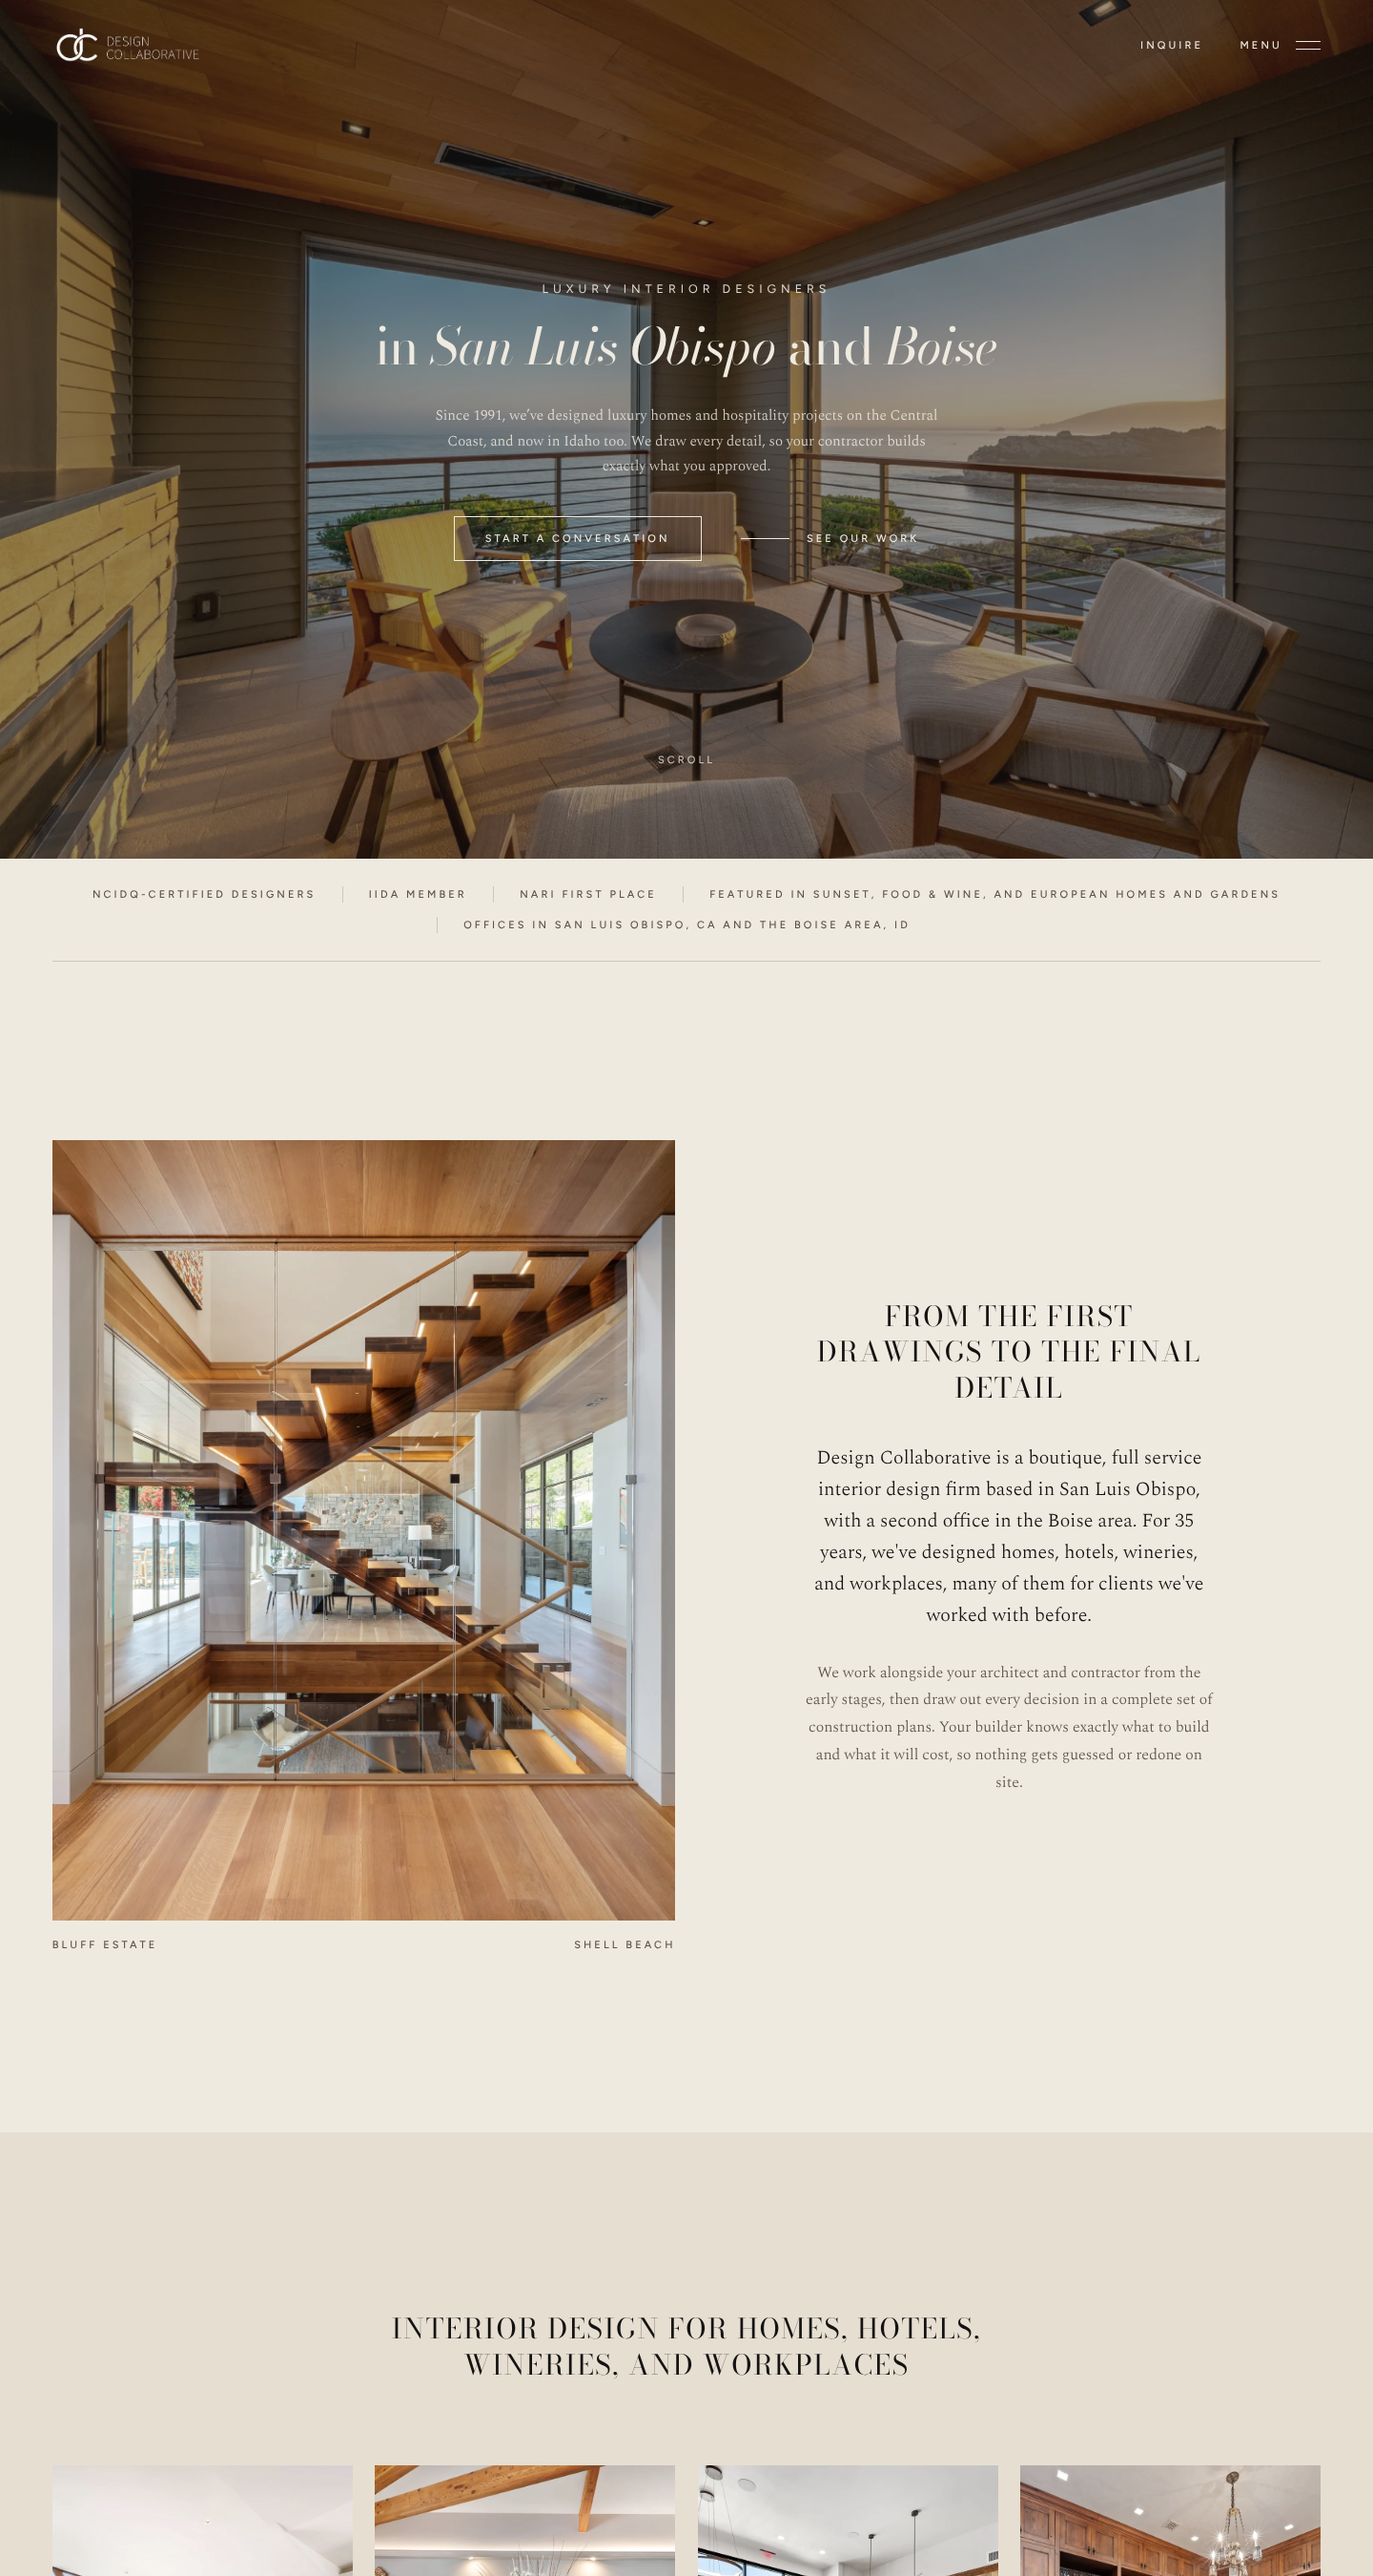
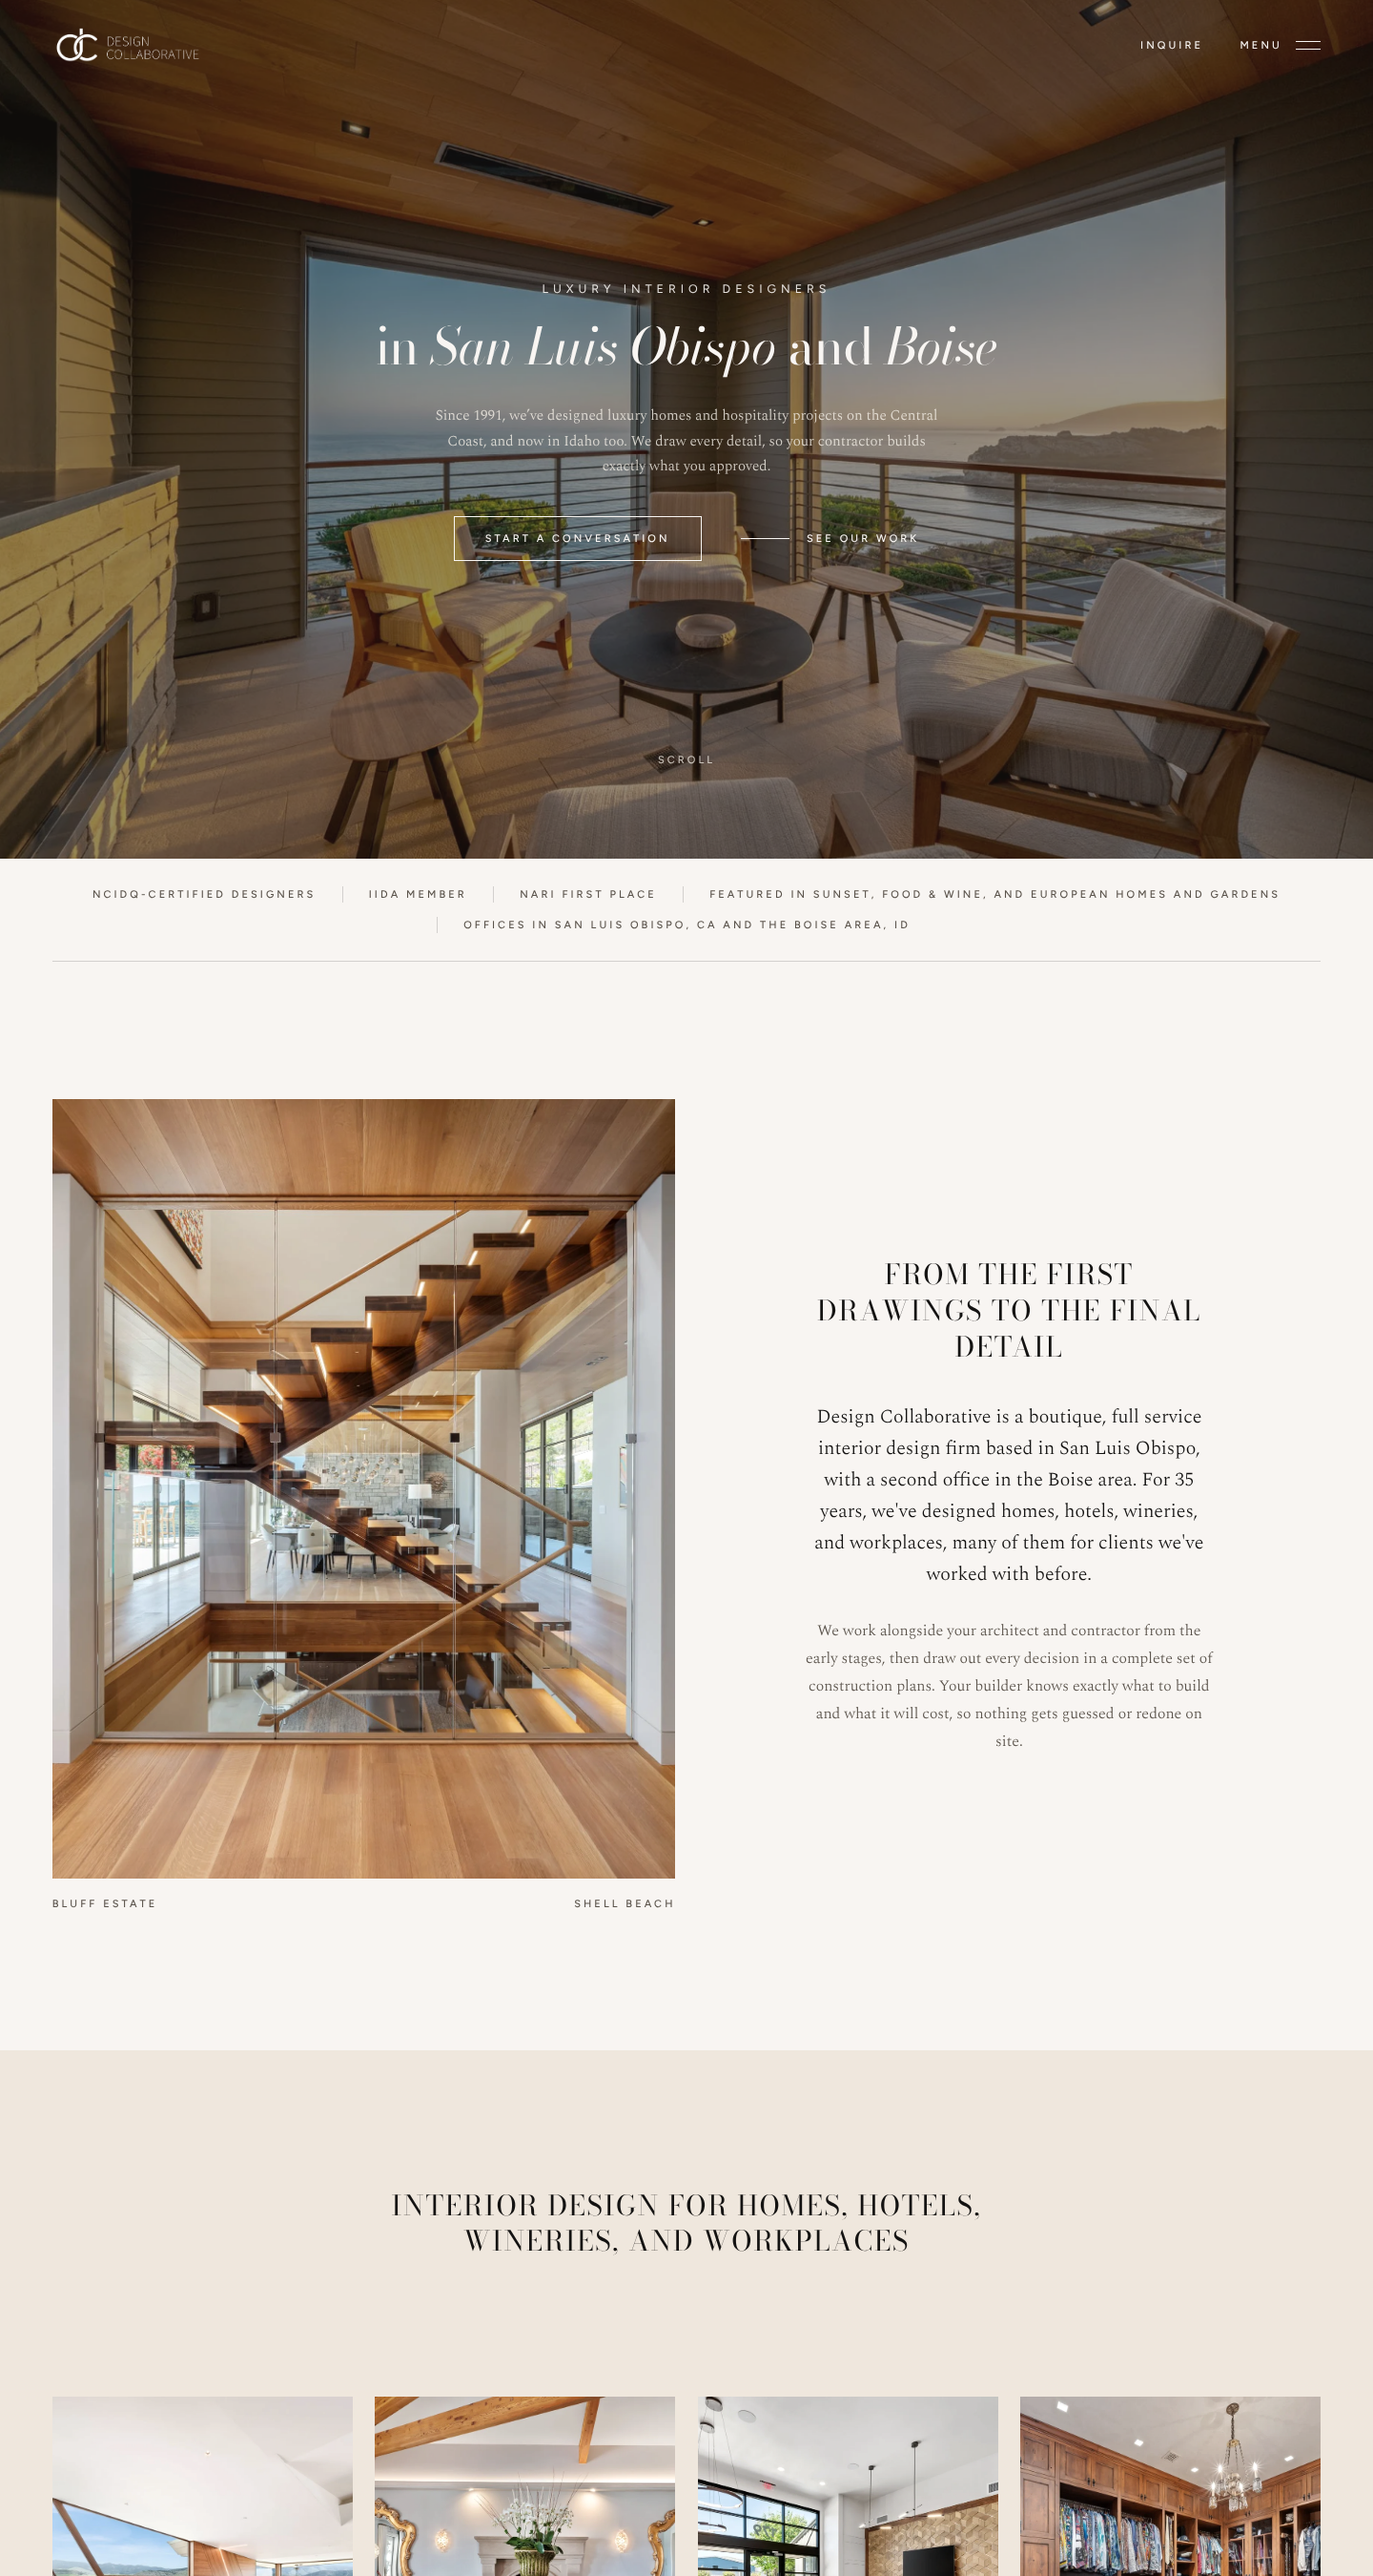
Use DC brand palette, balance section spacing, lock heading font cut
Palette from the live site's Squarespace colours: warm white #F8F5F2,
apricot #FFCC99 (tinted chapter), copper #B87332 accents; removes the
slate blue. Heading blocks now sit midway (equal space above/below).
Bodoni display optical size set explicitly so it matches on her site.

Claude-Session: https://claude.ai/code/session_01WwBvpqPXSJ5f6DX6dMBVaa

diff --git a/design-collaborative/squarespace/1-code-block.html b/design-collaborative/squarespace/1-code-block.html
@@ -22,14 +22,17 @@ body:has(#dc-home) #header,body:has(#dc-home) header#header,body:has(#dc-home) #
 #dc-home button{cursor:pointer}
 #dc-home img{max-width:100%;height:auto}
 
-#dc-home{--dc-cream:#EFEAE0;       
-  --dc-taupe:#E6DED1;       
+#dc-home{--dc-cream:#F8F5F2;       
+  --dc-taupe:#EFE7DD;       
   --dc-olive:#3A2F28;       
-  --dc-slate:#B8C1C0;       
-  --dc-sand:#AB9474;       
+  --dc-slate:#F2DFCA;       
+  --dc-copper:#B87332;      
+  --dc-copper-text:#8F5626; 
+  --dc-apricot:#FFCC99;     
+  --dc-sand:#FFCC99;       
   --dc-ink:#141312;         
   --dc-text:#5B544C;        
-  --dc-soft:#B9AC98;        
+  --dc-soft:#D9A877;        
   --dc-rule:rgba(20,19,18,.16);
   --dc-rule-d:rgba(243,238,230,.18);
 
@@ -46,7 +49,7 @@ body:has(#dc-home) #header,body:has(#dc-home) header#header,body:has(#dc-home) #
 
   --dc-gutter: clamp(1.1rem, 3.8vw, 4rem);
   --dc-colgap: clamp(.9rem, 1.6vw, 1.75rem);
-  --dc-section: clamp(6.5rem, 13vw, 14rem);
+  --dc-section: clamp(5.5rem, 10vw, 10rem);
   --dc-ease: cubic-bezier(.22,.61,.12,1);}
 #dc-home *,#dc-home *::before,#dc-home *::after{box-sizing:border-box}
 #dc-home{margin:0!important;background:var(--dc-cream);color:var(--dc-ink);font:300 var(--dc-fs-body)/1.8 var(--dc-text-serif);-webkit-font-smoothing:antialiased;overflow-x:hidden}
@@ -65,7 +68,9 @@ body:has(#dc-home) #header,body:has(#dc-home) header#header,body:has(#dc-home) #
 #dc-home .dc-olive{background:var(--dc-olive);color:var(--dc-cream)}
 #dc-home .dc-black{background:var(--dc-ink);color:var(--dc-cream)}
 #dc-home .dc-slate{background:var(--dc-slate);color:var(--dc-ink)}
-#dc-home .dc-h1,#dc-home .dc-h2,#dc-home .dc-h3{font-family:var(--dc-serif);font-weight:400;letter-spacing:-.01em;font-optical-sizing:auto}
+#dc-home .dc-h1,#dc-home .dc-h2,#dc-home .dc-h3{font-family:var(--dc-serif);font-weight:400;letter-spacing:-.01em;font-optical-sizing:none;font-variation-settings:"opsz" 28}
+#dc-home .dc-h1{font-variation-settings:"opsz" 60}
+#dc-home .dc-h3{font-variation-settings:"opsz" 16}
 #dc-home .dc-h1{font-size:var(--dc-fs-h1);line-height:1.08}
 #dc-home .dc-h2{font-size:var(--dc-fs-h2);line-height:1.3;text-transform:uppercase;letter-spacing:.06em}
 #dc-home .dc-h2 .dc-i,#dc-home .dc-h2 .dc-caps{font-style:normal;font-family:inherit;font-size:inherit;letter-spacing:inherit}
@@ -163,12 +168,12 @@ body:has(#dc-home) #header,body:has(#dc-home) header#header,body:has(#dc-home) #
 #dc-home .dc-intro__text .dc-prose{margin:1.8rem auto 0!important}
 @media (max-width:960px){#dc-home .dc-intro .dc-grid{display:block}
 #dc-home .dc-intro__img{margin-top:3.5rem!important}}
-#dc-home .dc-svc__head{text-align:center;max-width:42rem;margin:0 auto clamp(3.5rem,6vw,6rem)!important}
+#dc-home .dc-svc__head{text-align:center;max-width:42rem;margin:0 auto var(--dc-section)!important}
 #dc-home .dc-svc__row{display:grid;grid-template-columns:repeat(4,minmax(0,1fr));gap:var(--dc-colgap)}
 #dc-home .dc-svc__card{position:relative;display:flex;flex-direction:column}
 #dc-home .dc-svc__card .dc-media{aspect-ratio:4/5}
 #dc-home .dc-svc__card:hover img{transform:scale(1.04)}
-#dc-home .dc-svc__card .dc-label{margin-top:1.5rem!important;color:var(--dc-text)}
+#dc-home .dc-svc__card .dc-label{margin-top:1.5rem!important;color:var(--dc-copper-text)}
 #dc-home .dc-svc__card .dc-h3{margin-top:.6rem!important}
 #dc-home .dc-svc__card p{margin-top:.9rem!important;color:var(--dc-text);font-size:.93rem}
 #dc-home .dc-svc__card .dc-link{margin-top:1.4rem!important;gap:.8rem}
@@ -201,7 +206,7 @@ body:has(#dc-home) #header,body:has(#dc-home) header#header,body:has(#dc-home) #
 @media (max-width:960px){#dc-home .dc-who .dc-grid{display:block}
 #dc-home .dc-who__img{margin-top:3.5rem!important}}
 #dc-home .dc-homes{padding-bottom:0}
-#dc-home .dc-homes__head{max-width:44rem;text-align:center;margin:0 auto clamp(3.5rem,6vw,6rem)!important}
+#dc-home .dc-homes__head{max-width:44rem;text-align:center;margin:0 auto var(--dc-section)!important}
 #dc-home .dc-homes__head .dc-prose{margin:1.8rem auto 0!important;max-width:34rem}
 #dc-home .dc-homes__pair{display:grid;grid-template-columns:1fr 1fr;gap:3px}
 #dc-home .dc-place{position:relative;height:90vh;min-height:560px;color:var(--dc-cream);display:flex;align-items:flex-end;justify-content:center;text-align:center}
@@ -212,11 +217,11 @@ body:has(#dc-home) #header,body:has(#dc-home) header#header,body:has(#dc-home) #
 #dc-home .dc-place:hover img{transform:scale(1.03)}
 @media (max-width:960px){#dc-home .dc-homes__pair{grid-template-columns:1fr}
 #dc-home .dc-place{height:78svh}}
-#dc-home .dc-steps__head{text-align:center;margin-bottom:clamp(3.5rem,6vw,5.5rem)!important}
+#dc-home .dc-steps__head{text-align:center;margin-bottom:var(--dc-section)!important}
 #dc-home .dc-steps__list{display:grid;grid-template-columns:repeat(3,1fr);gap:var(--dc-colgap)}
 #dc-home .dc-step{text-align:center;padding:0 clamp(.5rem,2vw,2.5rem);border-left:1px solid var(--dc-rule)}
 #dc-home .dc-step:first-child{border-left:0}
-#dc-home .dc-step__n{display:block;font:italic 400 2rem/1 var(--dc-serif);color:var(--dc-ink);opacity:.55;margin-bottom:1.4rem!important}
+#dc-home .dc-step__n{display:block;font:italic 400 2rem/1 var(--dc-serif);color:var(--dc-copper-text);margin-bottom:1.4rem!important}
 #dc-home .dc-step p{margin:.9rem auto 0!important;color:#3F3B36;max-width:21rem}
 @media (max-width:960px){#dc-home .dc-steps__list{grid-template-columns:1fr;gap:0}
 #dc-home .dc-step{border-left:0;border-top:1px solid var(--dc-rule);padding:2.4rem 0}

diff --git a/design-collaborative/homepage-concept.html b/design-collaborative/homepage-concept.html
@@ -43,14 +43,17 @@
    Squarespace: Website > Pages > Custom Code > Custom CSS
    ===================================================================== */
 :root{
-  --dc-cream:#EFEAE0;       /* page */
-  --dc-taupe:#E6DED1;       /* warm alternate */
+  --dc-cream:#F8F5F2;       /* page: brand light accent hsl(30,20%,96%) */
+  --dc-taupe:#EFE7DD;       /* warm alternate */
   --dc-olive:#3A2F28;       /* chocolate (was olive) */
-  --dc-slate:#B8C1C0;       /* soft slate chapter */
-  --dc-sand:#AB9474;       /* deep accent chapter */
+  --dc-slate:#F2DFCA;       /* apricot tint chapter (from brand accent #FFCC99) */
+  --dc-copper:#B87332;      /* brand dark accent hsl(29,57%,46%) */
+  --dc-copper-text:#8F5626; /* copper for small text on light, 5.6:1 */
+  --dc-apricot:#FFCC99;     /* brand accent, for use on dark */
+  --dc-sand:#FFCC99;       /* deep accent chapter */
   --dc-ink:#141312;         /* gallery black */
   --dc-text:#5B544C;        /* body on light, 6.9:1 on cream */
-  --dc-soft:#B9AC98;        /* accent on dark */
+  --dc-soft:#D9A877;        /* copper-light, accent on dark */
   --dc-rule:rgba(20,19,18,.16);
   --dc-rule-d:rgba(243,238,230,.18);
 
@@ -67,7 +70,7 @@
 
   --dc-gutter: clamp(1.1rem, 3.8vw, 4rem);
   --dc-colgap: clamp(.9rem, 1.6vw, 1.75rem);
-  --dc-section: clamp(6.5rem, 13vw, 14rem);
+  --dc-section: clamp(5.5rem, 10vw, 10rem);
   --dc-ease: cubic-bezier(.22,.61,.12,1);
 }
 
@@ -92,7 +95,9 @@ ul,ol{list-style:none}
 .dc-slate{background:var(--dc-slate);color:var(--dc-ink)}
 
 /* Type: serif headlines at modest sizes, italic accents, tracked caps sans */
-.dc-h1,.dc-h2,.dc-h3{font-family:var(--dc-serif);font-weight:400;letter-spacing:-.01em;font-optical-sizing:auto}
+.dc-h1,.dc-h2,.dc-h3{font-family:var(--dc-serif);font-weight:400;letter-spacing:-.01em;font-optical-sizing:none;font-variation-settings:"opsz" 28}
+.dc-h1{font-variation-settings:"opsz" 60}
+.dc-h3{font-variation-settings:"opsz" 16}
 .dc-h1{font-size:var(--dc-fs-h1);line-height:1.08}
 .dc-h2{font-size:var(--dc-fs-h2);line-height:1.3;text-transform:uppercase;letter-spacing:.06em}
 .dc-h2 .dc-i,.dc-h2 .dc-caps{font-style:normal;font-family:inherit;font-size:inherit;letter-spacing:inherit}
@@ -220,12 +225,12 @@ ul,ol{list-style:none}
 /* =====================================================================
    04 · WHAT WE DESIGN — row of tall portrait panels
    ===================================================================== */
-.dc-svc__head{text-align:center;max-width:42rem;margin:0 auto clamp(3.5rem,6vw,6rem)}
+.dc-svc__head{text-align:center;max-width:42rem;margin:0 auto var(--dc-section)}
 .dc-svc__row{display:grid;grid-template-columns:repeat(4,minmax(0,1fr));gap:var(--dc-colgap)}
 .dc-svc__card{position:relative;display:flex;flex-direction:column}
 .dc-svc__card .dc-media{aspect-ratio:4/5}
 .dc-svc__card:hover img{transform:scale(1.04)}
-.dc-svc__card .dc-label{margin-top:1.5rem;color:var(--dc-text)}
+.dc-svc__card .dc-label{margin-top:1.5rem;color:var(--dc-copper-text)}
 .dc-svc__card .dc-h3{margin-top:.6rem}
 .dc-svc__card p{margin-top:.9rem;color:var(--dc-text);font-size:.93rem}
 .dc-svc__card .dc-link{margin-top:1.4rem;gap:.8rem}
@@ -267,7 +272,7 @@ ul,ol{list-style:none}
    07 · ONE FIRM, TWO HOMES — edge-to-edge diptych
    ===================================================================== */
 .dc-homes{padding-bottom:0}
-.dc-homes__head{max-width:44rem;text-align:center;margin:0 auto clamp(3.5rem,6vw,6rem)}
+.dc-homes__head{max-width:44rem;text-align:center;margin:0 auto var(--dc-section)}
 .dc-homes__head .dc-prose{margin:1.8rem auto 0;max-width:34rem}
 .dc-homes__pair{display:grid;grid-template-columns:1fr 1fr;gap:3px}
 .dc-place{position:relative;height:90vh;min-height:560px;color:var(--dc-cream);display:flex;align-items:flex-end;justify-content:center;text-align:center}
@@ -281,11 +286,11 @@ ul,ol{list-style:none}
 /* =====================================================================
    08 · HOW IT STARTS — olive chapter
    ===================================================================== */
-.dc-steps__head{text-align:center;margin-bottom:clamp(3.5rem,6vw,5.5rem)}
+.dc-steps__head{text-align:center;margin-bottom:var(--dc-section)}
 .dc-steps__list{display:grid;grid-template-columns:repeat(3,1fr);gap:var(--dc-colgap)}
 .dc-step{text-align:center;padding:0 clamp(.5rem,2vw,2.5rem);border-left:1px solid var(--dc-rule)}
 .dc-step:first-child{border-left:0}
-.dc-step__n{display:block;font:italic 400 2rem/1 var(--dc-serif);color:var(--dc-ink);opacity:.55;margin-bottom:1.4rem}
+.dc-step__n{display:block;font:italic 400 2rem/1 var(--dc-serif);color:var(--dc-copper-text);margin-bottom:1.4rem}
 .dc-step p{margin:.9rem auto 0;color:#3F3B36;max-width:21rem}
 @media (max-width:960px){.dc-steps__list{grid-template-columns:1fr;gap:0}.dc-step{border-left:0;border-top:1px solid var(--dc-rule);padding:2.4rem 0}.dc-step:first-child{border-top:0}}
 
